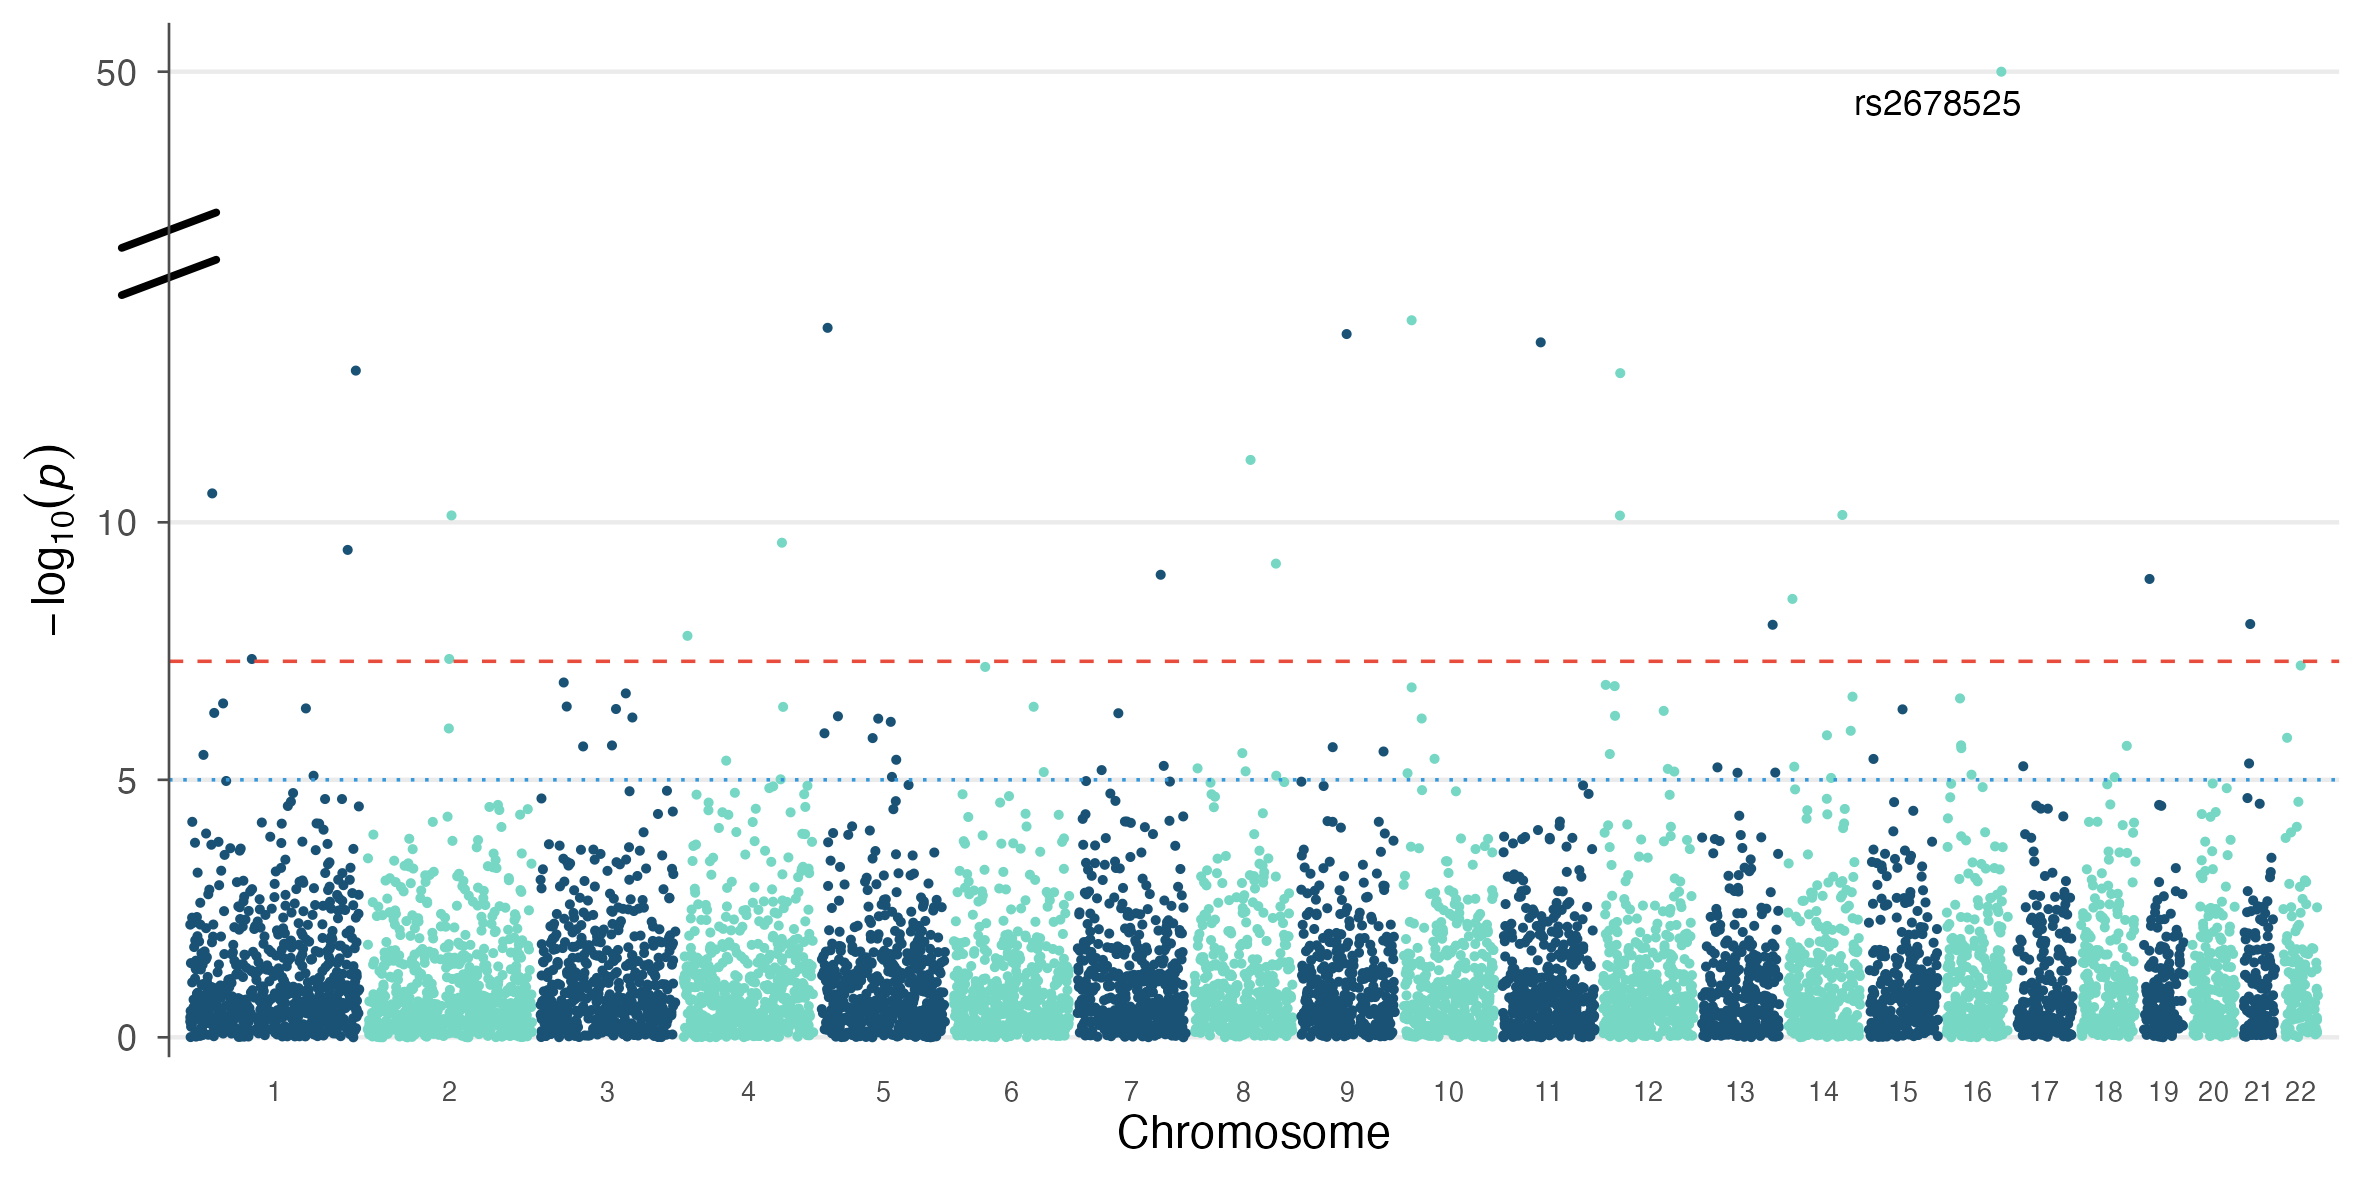
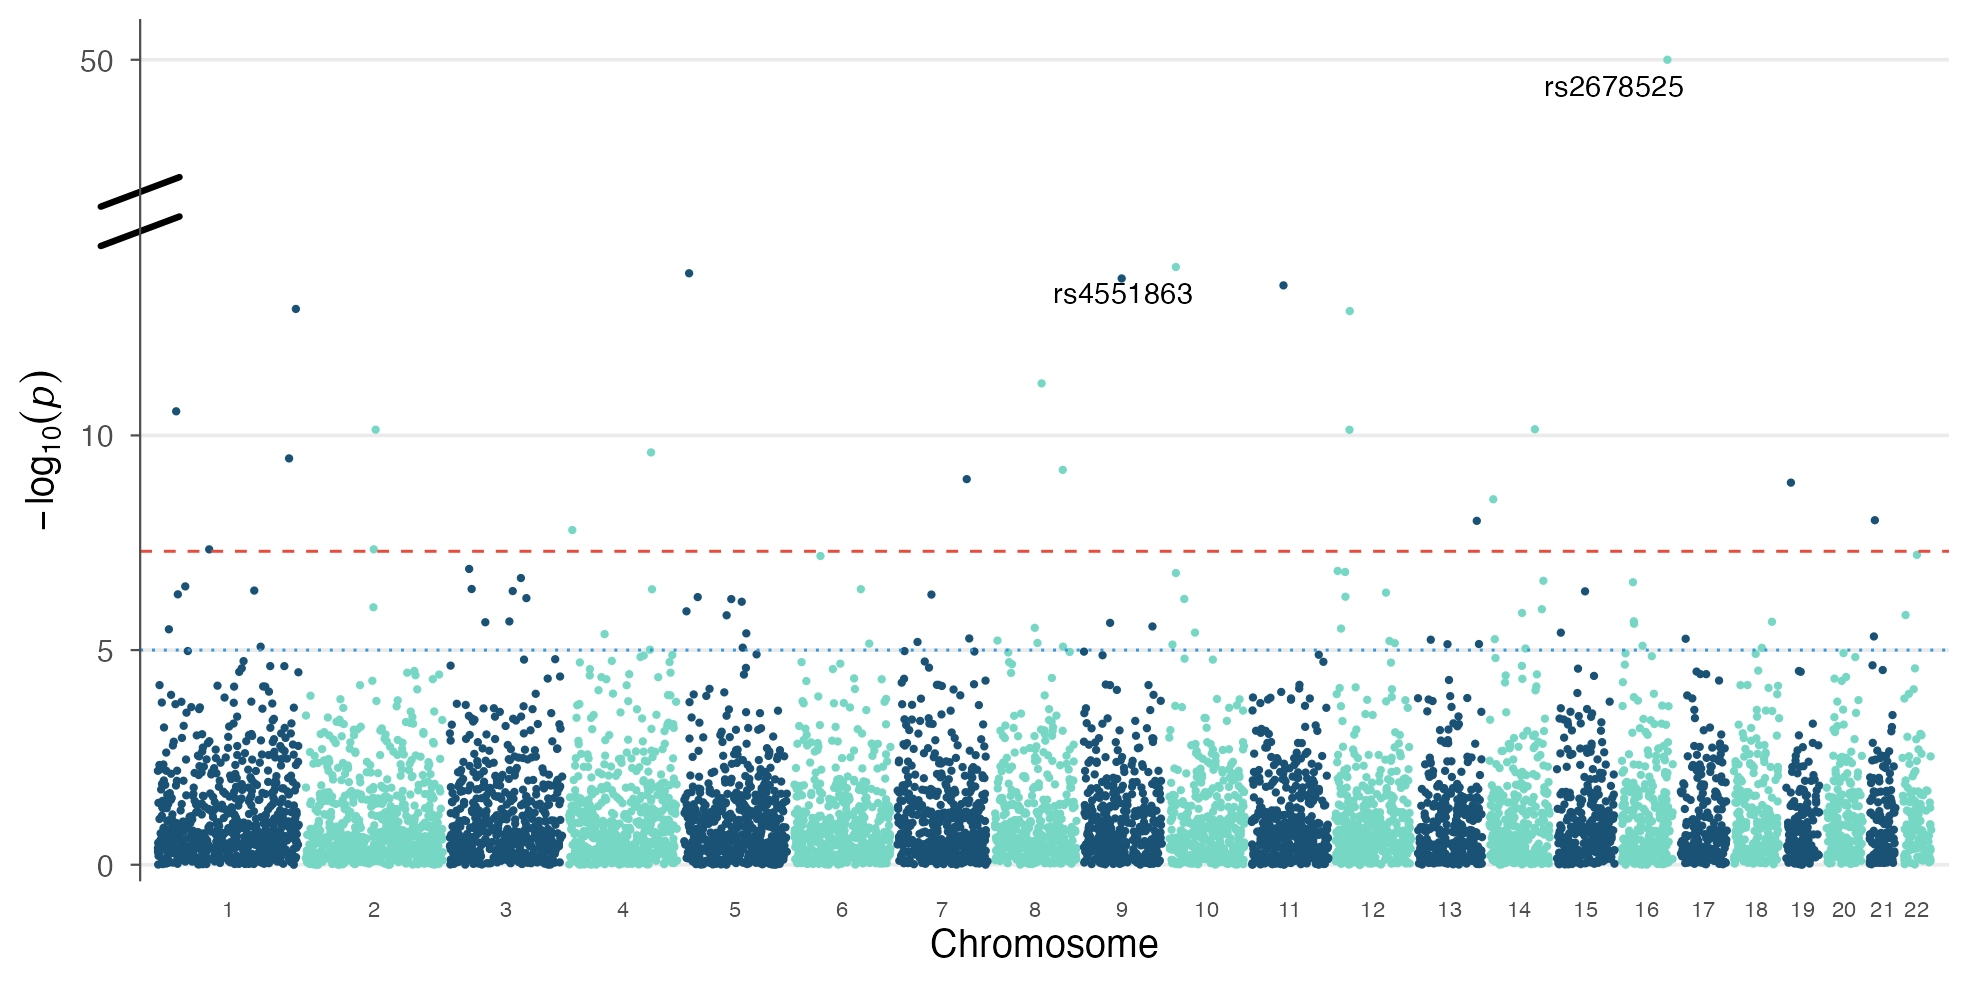
Deploying to gh-pages from @ bczech/ggwas@a6647f18191e183e4a83e88ef5066204d6fcbd0f 🚀

diff --git a/articles/ggwas.html b/articles/ggwas.html
@@ -56,7 +56,7 @@ Czech</h4>
                   <a class="author_email" href="mailto:#"></a><a href="mailto:[email redacted]" class="email">[email redacted]</a>
       
                   
-            <h4 data-toc-skip class="date">2026-06-24</h4>
+            <h4 data-toc-skip class="date">2026-06-25</h4>
       
       <small class="dont-index">Source: <a href="https://github.com/bczech/ggwas/blob/main/vignettes/ggwas.Rmd" class="external-link"><code>vignettes/ggwas.Rmd</code></a></small>
       <div class="d-none name"><code>ggwas.Rmd</code></div>
@@ -802,7 +802,7 @@ requirements:</p>
 </h2>
 <div class="sourceCode" id="cb49"><pre class="downlit sourceCode r">
 <code class="sourceCode R"><span><span class="fu"><a href="https://rdrr.io/r/utils/sessionInfo.html" class="external-link">sessionInfo</a></span><span class="op">(</span><span class="op">)</span></span>
-<span><span class="co">#&gt; R version 4.6.0 (2026-04-24)</span></span>
+<span><span class="co">#&gt; R version 4.6.1 (2026-06-24)</span></span>
 <span><span class="co">#&gt; Platform: x86_64-pc-linux-gnu</span></span>
 <span><span class="co">#&gt; Running under: Ubuntu 24.04.4 LTS</span></span>
 <span><span class="co">#&gt; </span></span>
@@ -826,7 +826,7 @@ requirements:</p>
 <span><span class="co">#&gt; [1] patchwork_1.3.2  ggplot2_4.0.3    ggwas_0.99.2     BiocStyle_2.40.0</span></span>
 <span><span class="co">#&gt; </span></span>
 <span><span class="co">#&gt; loaded via a namespace (and not attached):</span></span>
-<span><span class="co">#&gt;  [1] gtable_0.3.6        jsonlite_2.0.0      compiler_4.6.0     </span></span>
+<span><span class="co">#&gt;  [1] gtable_0.3.6        jsonlite_2.0.0      compiler_4.6.1     </span></span>
 <span><span class="co">#&gt;  [4] BiocManager_1.30.27 Rcpp_1.1.1-1.1      gridExtra_2.3      </span></span>
 <span><span class="co">#&gt;  [7] jquerylib_0.1.4     systemfonts_1.3.2   scales_1.4.0       </span></span>
 <span><span class="co">#&gt; [10] textshaping_1.0.5   yaml_2.3.12         fastmap_1.2.0      </span></span>
@@ -836,10 +836,10 @@ requirements:</p>
 <span><span class="co">#&gt; [22] cachem_1.1.0        xfun_0.59           fs_2.1.0           </span></span>
 <span><span class="co">#&gt; [25] sass_0.4.10         S7_0.2.2            otel_0.2.0         </span></span>
 <span><span class="co">#&gt; [28] viridisLite_0.4.3   cli_3.6.6           pkgdown_2.2.0      </span></span>
-<span><span class="co">#&gt; [31] withr_3.0.3         digest_0.6.39       grid_4.6.0         </span></span>
+<span><span class="co">#&gt; [31] withr_3.0.3         digest_0.6.39       grid_4.6.1         </span></span>
 <span><span class="co">#&gt; [34] lifecycle_1.0.5     vctrs_0.7.3         evaluate_1.0.5     </span></span>
 <span><span class="co">#&gt; [37] glue_1.8.1          data.table_1.18.4   farver_2.1.2       </span></span>
-<span><span class="co">#&gt; [40] ragg_1.5.2          rmarkdown_2.31      tools_4.6.0        </span></span>
+<span><span class="co">#&gt; [40] ragg_1.5.2          rmarkdown_2.31      tools_4.6.1        </span></span>
 <span><span class="co">#&gt; [43] htmltools_0.5.9</span></span></code></pre></div>
 </div>
   </main><aside class="col-md-3"><nav id="toc" aria-label="Table of contents"><h2>On this page</h2>

diff --git a/index.html b/index.html
@@ -79,6 +79,16 @@
 </ul>
 </div>
 <div class="section level2">
+<h2 id="gallery">Gallery<a class="anchor" aria-label="anchor" href="#gallery"></a>
+</h2>
+<p><img src="reference/figures/example_manhattan.png" width="700" alt="Manhattan plot"></p>
+<p><img src="reference/figures/example_qq.png" width="350" alt="QQ plot"><img src="reference/figures/example_circular.png" width="350" alt="Circular Manhattan"></p>
+<p><img src="reference/figures/example_miami.png" width="700" alt="Miami plot"></p>
+<p><img src="reference/figures/example_density.png" width="700" alt="SNP density karyogram"></p>
+<p><img src="reference/figures/example_truncate.png" width="700" alt="Truncated Manhattan"></p>
+<p>See all 17 plot types with worked examples at <strong><a href="https://bczech.github.io/ggwas/" class="uri">https://bczech.github.io/ggwas/</a></strong></p>
+</div>
+<div class="section level2">
 <h2 id="comparison">Comparison<a class="anchor" aria-label="anchor" href="#comparison"></a>
 </h2>
 <table class="table">

diff --git a/index.md b/index.md
@@ -18,6 +18,22 @@ defaults and journal-specific themes.
   generic files
 - **Fully composable** — every function returns a ggplot object
 
+## Gallery
+
+![Manhattan plot](reference/figures/example_manhattan.png)
+
+![QQ plot](reference/figures/example_qq.png)![Circular
+Manhattan](reference/figures/example_circular.png)
+
+![Miami plot](reference/figures/example_miami.png)
+
+![SNP density karyogram](reference/figures/example_density.png)
+
+![Truncated Manhattan](reference/figures/example_truncate.png)
+
+See all 17 plot types with worked examples at
+**<https://bczech.github.io/ggwas/>**
+
 ## Comparison
 
 | Feature | qqman | CMplot | **ggwas** |

diff --git a/articles/ggwas.md b/articles/ggwas.md
@@ -890,7 +890,7 @@ ggsave("figure1.png", fig, width = 10, height = 5, dpi = 300)
 ``` r
 
 sessionInfo()
-#> R version 4.6.0 (2026-04-24)
+#> R version 4.6.1 (2026-06-24)
 #> Platform: x86_64-pc-linux-gnu
 #> Running under: Ubuntu 24.04.4 LTS
 #> 
@@ -914,7 +914,7 @@ sessionInfo()
 #> [1] patchwork_1.3.2  ggplot2_4.0.3    ggwas_0.99.2     BiocStyle_2.40.0
 #> 
 #> loaded via a namespace (and not attached):
-#>  [1] gtable_0.3.6        jsonlite_2.0.0      compiler_4.6.0     
+#>  [1] gtable_0.3.6        jsonlite_2.0.0      compiler_4.6.1     
 #>  [4] BiocManager_1.30.27 Rcpp_1.1.1-1.1      gridExtra_2.3      
 #>  [7] jquerylib_0.1.4     systemfonts_1.3.2   scales_1.4.0       
 #> [10] textshaping_1.0.5   yaml_2.3.12         fastmap_1.2.0      
@@ -924,9 +924,9 @@ sessionInfo()
 #> [22] cachem_1.1.0        xfun_0.59           fs_2.1.0           
 #> [25] sass_0.4.10         S7_0.2.2            otel_0.2.0         
 #> [28] viridisLite_0.4.3   cli_3.6.6           pkgdown_2.2.0      
-#> [31] withr_3.0.3         digest_0.6.39       grid_4.6.0         
+#> [31] withr_3.0.3         digest_0.6.39       grid_4.6.1         
 #> [34] lifecycle_1.0.5     vctrs_0.7.3         evaluate_1.0.5     
 #> [37] glue_1.8.1          data.table_1.18.4   farver_2.1.2       
-#> [40] ragg_1.5.2          rmarkdown_2.31      tools_4.6.0        
+#> [40] ragg_1.5.2          rmarkdown_2.31      tools_4.6.1        
 #> [43] htmltools_0.5.9
 ```